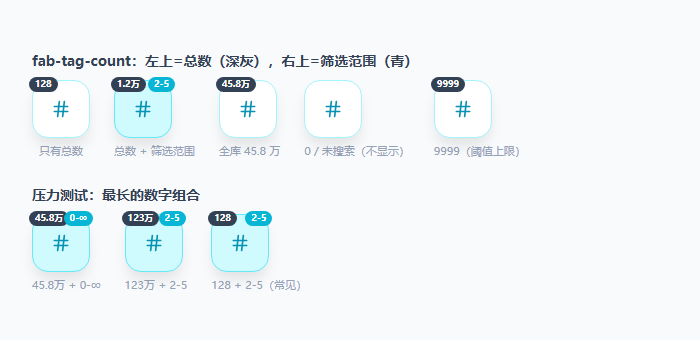
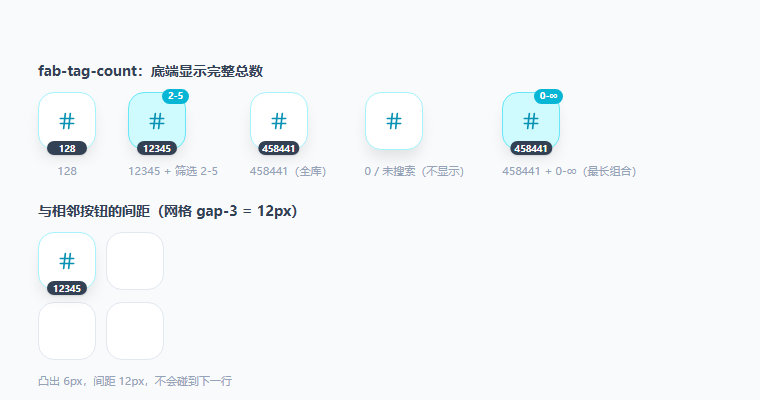
feat: 总数徽标移到按钮底端，显示完整数字
按需求调整上一版的总数徽标：

一、位置：左上角 -> 底端居中
------------------------------
角落空间太小放不下 "458441" 这种 6 位数（上一版不得不压缩成
"45.8万"）。改到底端后是一条横条，宽度只受按钮左右边界限制，
完整数字放得下，也不挡右上角的筛选范围徽标。

    absolute -bottom-1.5 left-1/2 -translate-x-1/2

二、尺寸固定
------------------------------
    h-3.5          高度固定 14px（数字多少都不会把按钮撑变形）
    min-w-[2rem]   最小宽度 32px（一位数时也是圆角胶囊，不会缩成圆点）
    px-1           左右内边距，数字多时自动变宽

三、显示完整数字
------------------------------
去掉万位压缩逻辑，直接 String(n)：
    128       -> 128
    12345     -> 12345
    458441    -> 458441

信息更完整 —— 能直接看出筛掉了多少张，而不是模糊的 "45.8万"。

四、间距验证
------------------------------
徽标凸出按钮 6px，网格行间距 12px，不会碰到下一行按钮。

docs/total-badge-preview.html 渲染了 5 种数值 + 相邻按钮间距，
全部正常。

diff --git a/docs/total-badge-preview.html b/docs/total-badge-preview.html
@@ -2,13 +2,13 @@
 <html lang="zh-CN">
 <head>
 <meta charset="utf-8">
-<title>总数徽标效果</title>
+<title>底端总数徽标</title>
 <style>
-  body { font-family: system-ui, sans-serif; padding: 24px; background:#f8fafc; }
-  h2 { font-size: 14px; color:#334155; margin: 20px 0 10px; }
-  .row { display:flex; gap:24px; align-items:flex-start; }
+  body { font-family: system-ui, sans-serif; padding: 30px; background:#f8fafc; }
+  h2 { font-size: 14px; color:#334155; margin: 24px 0 12px; }
+  .row { display:flex; gap:32px; align-items:flex-start; flex-wrap:wrap; }
   .item { text-align:center; }
-  .lbl { font-size:11px; color:#94a3b8; margin-top:6px; }
+  .lbl { font-size:11px; color:#94a3b8; margin-top:14px; }
   .fab {
     width:56px; height:56px; border-radius:16px; background:#fff;
     border:1px solid #a5f3fc; color:#0891b2;
@@ -17,113 +17,80 @@
     position:relative;
   }
   .fab.active { background:#cffafe; border-color:#67e8f9; }
-  .badge {
-    position:absolute; top:-4px; color:#fff; font-size:9px; font-weight:700;
+  .total-badge {
+    position:absolute;
+    bottom:-6px; left:50%; transform:translateX(-50%);
+    height:14px; min-width:32px;
+    display:flex; align-items:center; justify-content:center;
+    background:#334155; color:#fff; font-size:9px; font-weight:700;
+    padding:0 4px; border-radius:9999px; white-space:nowrap;
+    line-height:1; box-shadow:0 1px 2px rgb(0 0 0/.1);
+  }
+  .range-badge {
+    position:absolute; top:-4px; right:-4px;
+    background:#06b6d4; color:#fff; font-size:9px; font-weight:700;
     padding:2px 6px; border-radius:9999px; line-height:1.2; white-space:nowrap;
   }
-  .badge-total { left:-4px; background:#334155; }
-  .badge-range { right:-4px; background:#06b6d4; }
+  .plain {
+    width:56px; height:56px; border-radius:16px; background:#fff;
+    border:1px solid #e2e8f0;
+  }
 </style>
 </head>
 <body>
 
-<h2>fab-tag-count：左上=总数（深灰），右上=筛选范围（青）</h2>
+<h2>fab-tag-count：底端显示完整总数</h2>
 <div class="row">
 
   <div class="item">
-    <div class="fab">
-      <svg width="20" height="20" viewBox="0 0 24 24" fill="none" stroke="currentColor" stroke-width="2" stroke-linecap="round" stroke-linejoin="round">
-        <line x1="4" y1="9" x2="20" y2="9"/><line x1="4" y1="15" x2="20" y2="15"/>
-        <line x1="10" y1="3" x2="8" y2="21"/><line x1="16" y1="3" x2="14" y2="21"/>
-      </svg>
-      <span class="badge badge-total">128</span>
+    <div class="fab"><svg width="20" height="20" viewBox="0 0 24 24" fill="none" stroke="currentColor" stroke-width="2" stroke-linecap="round" stroke-linejoin="round"><line x1="4" y1="9" x2="20" y2="9"/><line x1="4" y1="15" x2="20" y2="15"/><line x1="10" y1="3" x2="8" y2="21"/><line x1="16" y1="3" x2="14" y2="21"/></svg>
+      <span class="total-badge">128</span>
     </div>
-    <div class="lbl">只有总数</div>
+    <div class="lbl">128</div>
   </div>
 
   <div class="item">
-    <div class="fab active">
-      <svg width="20" height="20" viewBox="0 0 24 24" fill="none" stroke="currentColor" stroke-width="2" stroke-linecap="round" stroke-linejoin="round">
-        <line x1="4" y1="9" x2="20" y2="9"/><line x1="4" y1="15" x2="20" y2="15"/>
-        <line x1="10" y1="3" x2="8" y2="21"/><line x1="16" y1="3" x2="14" y2="21"/>
-      </svg>
-      <span class="badge badge-total">1.2万</span>
-      <span class="badge badge-range">2-5</span>
+    <div class="fab active"><svg width="20" height="20" viewBox="0 0 24 24" fill="none" stroke="currentColor" stroke-width="2" stroke-linecap="round" stroke-linejoin="round"><line x1="4" y1="9" x2="20" y2="9"/><line x1="4" y1="15" x2="20" y2="15"/><line x1="10" y1="3" x2="8" y2="21"/><line x1="16" y1="3" x2="14" y2="21"/></svg>
+      <span class="total-badge">12345</span>
+      <span class="range-badge">2-5</span>
     </div>
-    <div class="lbl">总数 + 筛选范围</div>
+    <div class="lbl">12345 + 筛选 2-5</div>
   </div>
 
   <div class="item">
-    <div class="fab">
-      <svg width="20" height="20" viewBox="0 0 24 24" fill="none" stroke="currentColor" stroke-width="2" stroke-linecap="round" stroke-linejoin="round">
-        <line x1="4" y1="9" x2="20" y2="9"/><line x1="4" y1="15" x2="20" y2="15"/>
-        <line x1="10" y1="3" x2="8" y2="21"/><line x1="16" y1="3" x2="14" y2="21"/>
-      </svg>
-      <span class="badge badge-total">45.8万</span>
+    <div class="fab"><svg width="20" height="20" viewBox="0 0 24 24" fill="none" stroke="currentColor" stroke-width="2" stroke-linecap="round" stroke-linejoin="round"><line x1="4" y1="9" x2="20" y2="9"/><line x1="4" y1="15" x2="20" y2="15"/><line x1="10" y1="3" x2="8" y2="21"/><line x1="16" y1="3" x2="14" y2="21"/></svg>
+      <span class="total-badge">458441</span>
     </div>
-    <div class="lbl">全库 45.8 万</div>
+    <div class="lbl">458441（全库）</div>
   </div>
 
   <div class="item">
-    <div class="fab">
-      <svg width="20" height="20" viewBox="0 0 24 24" fill="none" stroke="currentColor" stroke-width="2" stroke-linecap="round" stroke-linejoin="round">
-        <line x1="4" y1="9" x2="20" y2="9"/><line x1="4" y1="15" x2="20" y2="15"/>
-        <line x1="10" y1="3" x2="8" y2="21"/><line x1="16" y1="3" x2="14" y2="21"/>
-      </svg>
-      <span class="badge badge-total" style="display:none">0</span>
+    <div class="fab"><svg width="20" height="20" viewBox="0 0 24 24" fill="none" stroke="currentColor" stroke-width="2" stroke-linecap="round" stroke-linejoin="round"><line x1="4" y1="9" x2="20" y2="9"/><line x1="4" y1="15" x2="20" y2="15"/><line x1="10" y1="3" x2="8" y2="21"/><line x1="16" y1="3" x2="14" y2="21"/></svg>
     </div>
     <div class="lbl">0 / 未搜索（不显示）</div>
   </div>
 
   <div class="item">
-    <div class="fab">
-      <svg width="20" height="20" viewBox="0 0 24 24" fill="none" stroke="currentColor" stroke-width="2" stroke-linecap="round" stroke-linejoin="round">
-        <line x1="4" y1="9" x2="20" y2="9"/><line x1="4" y1="15" x2="20" y2="15"/>
-        <line x1="10" y1="3" x2="8" y2="21"/><line x1="16" y1="3" x2="14" y2="21"/>
-      </svg>
-      <span class="badge badge-total">9999</span>
+    <div class="fab active"><svg width="20" height="20" viewBox="0 0 24 24" fill="none" stroke="currentColor" stroke-width="2" stroke-linecap="round" stroke-linejoin="round"><line x1="4" y1="9" x2="20" y2="9"/><line x1="4" y1="15" x2="20" y2="15"/><line x1="10" y1="3" x2="8" y2="21"/><line x1="16" y1="3" x2="14" y2="21"/></svg>
+      <span class="total-badge">458441</span>
+      <span class="range-badge">0-∞</span>
     </div>
-    <div class="lbl">9999（阈值上限）</div>
+    <div class="lbl">458441 + 0-∞（最长组合）</div>
   </div>
 
 </div>
 
-
-<h2 style="margin-top:28px">压力测试：最长的数字组合</h2>
-<div class="row">
-  <div class="item">
-    <div class="fab active">
-      <svg width="20" height="20" viewBox="0 0 24 24" fill="none" stroke="currentColor" stroke-width="2" stroke-linecap="round" stroke-linejoin="round">
-        <line x1="4" y1="9" x2="20" y2="9"/><line x1="4" y1="15" x2="20" y2="15"/>
-        <line x1="10" y1="3" x2="8" y2="21"/><line x1="16" y1="3" x2="14" y2="21"/>
-      </svg>
-      <span class="badge badge-total">45.8万</span>
-      <span class="badge badge-range">0-∞</span>
-    </div>
-    <div class="lbl">45.8万 + 0-∞</div>
+<h2>与相邻按钮的间距（网格 gap-3 = 12px）</h2>
+<div style="display:grid; grid-template-columns:56px 56px; gap:12px; width:124px; margin-bottom:8px;">
+  <div class="fab" style="display:flex;align-items:center;justify-content:center;">
+    <svg width="20" height="20" viewBox="0 0 24 24" fill="none" stroke="currentColor" stroke-width="2" stroke-linecap="round" stroke-linejoin="round"><line x1="4" y1="9" x2="20" y2="9"/><line x1="4" y1="15" x2="20" y2="15"/><line x1="10" y1="3" x2="8" y2="21"/><line x1="16" y1="3" x2="14" y2="21"/></svg>
+    <span class="total-badge">12345</span>
   </div>
-  <div class="item">
-    <div class="fab active">
-      <svg width="20" height="20" viewBox="0 0 24 24" fill="none" stroke="currentColor" stroke-width="2" stroke-linecap="round" stroke-linejoin="round">
-        <line x1="4" y1="9" x2="20" y2="9"/><line x1="4" y1="15" x2="20" y2="15"/>
-        <line x1="10" y1="3" x2="8" y2="21"/><line x1="16" y1="3" x2="14" y2="21"/>
-      </svg>
-      <span class="badge badge-total">123万</span>
-      <span class="badge badge-range">2-5</span>
-    </div>
-    <div class="lbl">123万 + 2-5</div>
-  </div>
-  <div class="item">
-    <div class="fab active">
-      <svg width="20" height="20" viewBox="0 0 24 24" fill="none" stroke="currentColor" stroke-width="2" stroke-linecap="round" stroke-linejoin="round">
-        <line x1="4" y1="9" x2="20" y2="9"/><line x1="4" y1="15" x2="20" y2="15"/>
-        <line x1="10" y1="3" x2="8" y2="21"/><line x1="16" y1="3" x2="14" y2="21"/>
-      </svg>
-      <span class="badge badge-total">128</span>
-      <span class="badge badge-range">2-5</span>
-    </div>
-    <div class="lbl">128 + 2-5（常见）</div>
-  </div>
+  <div class="plain"></div>
+  <div class="plain"></div>
+  <div class="plain"></div>
 </div>
+<div class="lbl" style="text-align:left">凸出 6px，间距 12px，不会碰到下一行</div>
+
 </body>
 </html>

diff --git a/frontend/src/components/FloatingButtons.vue b/frontend/src/components/FloatingButtons.vue
@@ -274,20 +274,17 @@ const appliedRangeText = computed(() => `${appliedMin.value}-${appliedMax.value 
 /**
  * 当前查询命中总数的徽标文字。
  *
- * 【为什么压缩大数】徽标只有 56px 按钮的角落那么点地方，
- * 45 万这种 6 位数直接写会撑破布局，所以：
- *   9999 以下   原样显示
- *   1 万以上    显示 "1.2万"
- *   100 万以上  显示 "123万"
+ * 【为什么显示完整数字】徽标固定在按钮底端，是一条横向的条，
+ * 宽度只受按钮左右边界约束；大数（如 458441）也能放下。
+ * 早先放在角落时不得不压缩成 "45.8万"，现在不需要了 ——
+ * 完整数字对用户更有用（能直接看出筛掉了多少）。
  *
  * 0 或者还没搜过（undefined）时返回空串，徽标不显示。
  */
 const totalCountText = computed(() => {
   const n = props.totalImages
   if (typeof n !== 'number' || !Number.isFinite(n) || n <= 0) return ''
-  if (n < 10000) return String(n)
-  if (n < 1000000) return `${(n / 10000).toFixed(1).replace(/\.0$/, '')}万`
-  return `${Math.round(n / 10000)}万`
+  return String(n)
 })
 
 const expandedOriginal = computed(() => props.expandedOriginal ?? 0)
@@ -1041,13 +1038,20 @@ onBeforeUnmount(() => {
           @click.stop="toggleTagCountPanel"
         >
           <Hash class="w-5 h-5" />
-          <!-- 当前查询命中总数。
-               放左上角，避免与右上角的 tag-count-badge
-               （标签数量筛选范围，如 "2-5"）重叠。 -->
+          <!-- 当前查询命中总数：固定在按钮**底端**，显示完整数字。
+               
+               放底端而不是角标，是为了腾出空间放完整数字：
+               56px 按钮的角落塞不下 "458441"，而底端是一条横条，
+               宽度够、也不挡右上角的筛选范围徽标。
+               
+               高度固定（h-3.5 = 14px），数字变长只影响宽度，
+               不会把按钮撑变形。 -->
           <span
             id="total-count-badge"
             :class="[
-              'absolute -top-1 -left-1 bg-slate-700 text-white text-[9px] font-bold px-1.5 py-0.5 rounded-full whitespace-nowrap',
+              'absolute -bottom-1.5 left-1/2 -translate-x-1/2 h-3.5 min-w-[2rem] flex items-center justify-center',
+              'bg-slate-700 text-white text-[9px] font-bold px-1 rounded-full whitespace-nowrap leading-none',
+              'shadow-sm pointer-events-none',
               totalCountText ? '' : 'hidden'
             ]"
             :title="`当前查询共 ${totalImages ?? 0} 张`"
